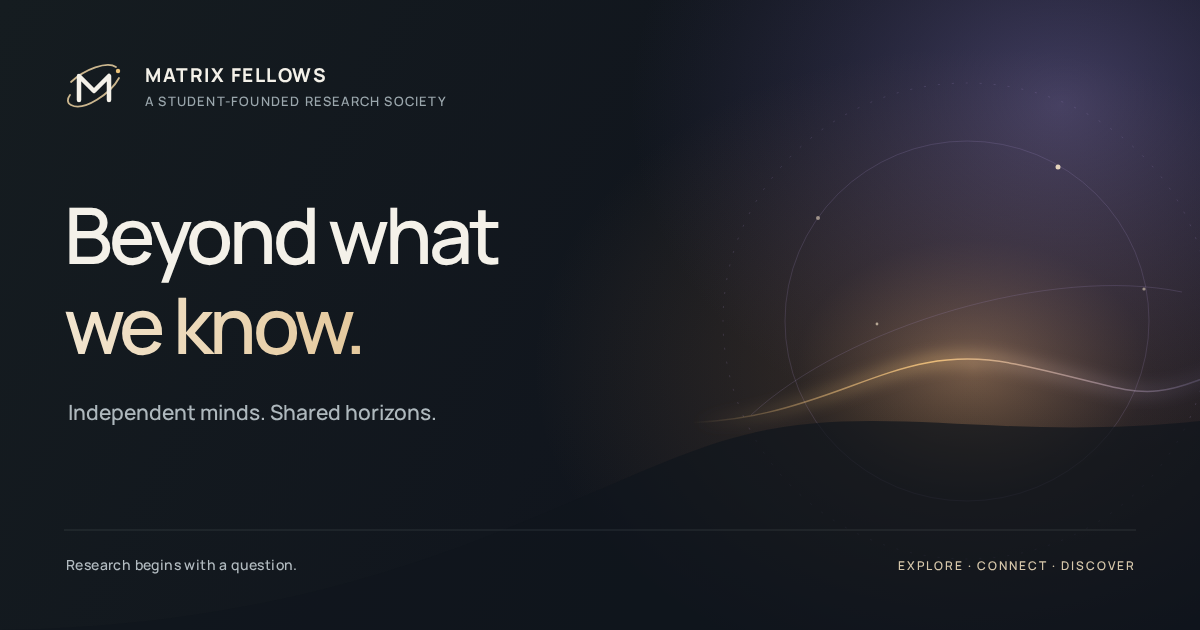
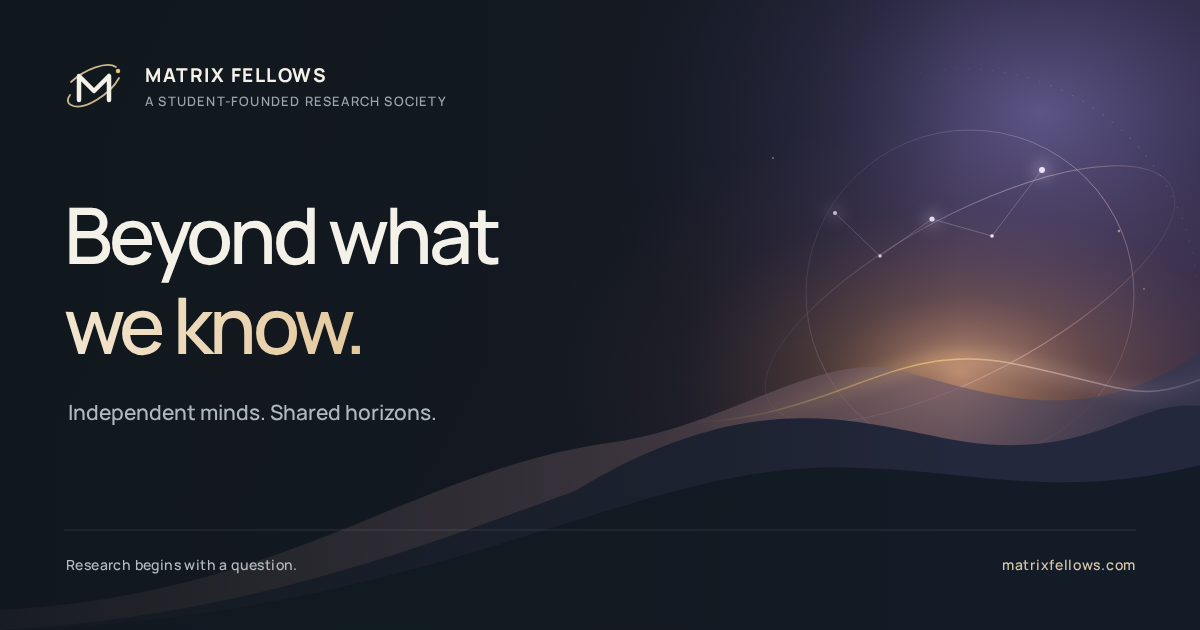
Verify live opportunities, fix Worker fetches, and refine social preview

diff --git a/workers/adapters.ts b/workers/adapters.ts
@@ -128,7 +128,9 @@ export async function fetchSource(source: ImportSource): Promise<Opportunity[]> 
   )
     throw new Error('Source must be a public HTTPS hostname')
   const response = await fetch(url, {
-    redirect: 'error',
+    // Workers supports manual/follow, but not the browser's "error" mode.
+    // Never follow an upstream redirect beyond the validated hostname.
+    redirect: 'manual',
     signal: AbortSignal.timeout(12000),
     headers: {
       Accept:
@@ -140,6 +142,8 @@ export async function fetchSource(source: ImportSource): Promise<Opportunity[]> 
       'User-Agent': 'MatrixFellows-Opportunities/1.0',
     },
   })
+  if (response.status >= 300 && response.status < 400)
+    throw new Error('Source redirects are not allowed')
   if (!response.ok) throw new Error(`Source returned HTTP ${response.status}`)
   if (source.kind === 'official' && !response.headers.get('content-type')?.includes('text/html'))
     throw new Error('Expected official HTML page, not a redirect or challenge')

diff --git a/tests/unit/opportunities.test.ts b/tests/unit/opportunities.test.ts
@@ -27,6 +27,20 @@ const row = {
 afterEach(() => vi.unstubAllGlobals())
 
 describe('opportunity ingestion', () => {
+  it('uses Workers-compatible manual redirects and rejects redirected sources', async () => {
+    const mock = vi
+      .fn()
+      .mockResolvedValue(
+        new Response(null, { status: 302, headers: { Location: 'https://other.example/feed' } }),
+      )
+    vi.stubGlobal('fetch', mock)
+    await expect(fetchSource(source)).rejects.toThrow('Source redirects are not allowed')
+    expect(mock).toHaveBeenCalledWith(
+      expect.any(URL),
+      expect.objectContaining({ redirect: 'manual' }),
+    )
+    expect(mock).toHaveBeenCalledTimes(1)
+  })
   it('compares offset deadlines as instants and ranks US entries first at equal priority', () => {
     expect(deadlineTimestamp('2026-09-07T01:00:00+03:00')).toBeLessThan(
       deadlineTimestamp('2026-09-06T23:00:00Z'),

diff --git a/app/app.vue b/app/app.vue
@@ -5,7 +5,7 @@ import { defaultContent, defaultOpportunities } from '#shared/data/defaults'
 import type { PublicContent } from '#shared/types/content'
 
 const siteUrl = useRuntimeConfig().public.siteUrl
-const socialImage = new URL('/social-card.png', siteUrl).href
+const socialImage = new URL('/social-card.png?v=horizon-2', siteUrl).href
 useSeoMeta({
   ogImage: socialImage,
   ogImageWidth: 1200,

diff --git a/docs/opportunity-imports.md b/docs/opportunity-imports.md
@@ -17,9 +17,18 @@ ISEF, Davidson Fellows, Queer in AI at NeurIPS, NeurIPS, IEEE/CVF CVPR, IEEE ICR
 ## Maintenance
 
 - Run `npm run check:sources` for a read-only live check; `npm test` covers deterministic extraction and database authorization.
+- Run `npm run check:live` after deployment to verify social-crawler metadata, the exact deployed PNG, Supabase connectivity, and all seven published official listings.
 - For redesigned pages or new editions, inspect the official source, update the profile/parser and tests, then redeploy with `npm run deploy:imports`.
 - Apply migrations with `npx supabase db push --linked` before deploying code requiring them.
 - Cloudflare secrets: `SUPABASE_URL`, `SUPABASE_SERVICE_ROLE_KEY`. Never commit either credential.
 - Monitor source errors in the editor and Worker logs. Unannounced dates and ambiguous timezones are explicitly retained as unknown/date-only. Edition rollover deliberately requires maintenance rather than relabeling last year’s dates.
 
 An LLM can later propose parser repairs behind this same review boundary, but is not required for the initial scheduled service.
+
+## Production verification — September 7, 2026
+
+The first seven proposals were checked against fresh official-source results and published. The older generic ISEF and STS discovery cards were suppressed (not deleted) to avoid duplicate listings; the JSHS and general NeurIPS workshop discovery links remain. Davidson is published with an explicit unannounced deadline, not a guessed date.
+
+Exercised the scheduled handler in Cloudflare using Wrangler remote preview and `--test-scheduled`. This revealed that Workers rejects `redirect: 'error'`; the adapter now uses `manual` and explicitly rejects 3xx responses without following them. After the fix, all seven sources recorded one imported item and no errors. This is a manual cloud-runtime test of the scheduled handler, not a claim that a future daily cron has already fired. The production cron remains `0 11 * * *`.
+
+The website Worker has `NUXT_PUBLIC_SUPABASE_URL`, `NUXT_PUBLIC_SUPABASE_ANON_KEY`, and `NUXT_PUBLIC_SITE_URL` configured. The service-role key exists only on the importer. Changed official facts still require owner review; unchanged approved facts refresh automatically.

diff --git a/docs/alto-adventure-references.md b/docs/alto-adventure-references.md
@@ -37,3 +37,7 @@ Downloaded inspection copies: `/tmp/matrix-alto-adventure/dawn.png`, `night.png`
 - The underwater interpretation remains original to Matrix Fellows: the reference supplies palette and layering principles, not literal geography or copied assets.
 
 The implementing agent inspected desktop captures of these changes; final verification details belong in the task handoff rather than this source note.
+
+## Social preview refinement
+
+Reinspected the Dawn and Night screenshots for the 1200×630 Open Graph card. Retained Matrix Fellows’ purple/orange bloom, localized the warm horizon, and introduced muted mauve/slate ridges with darker foreground separation. A sparse Cassiopeia-inspired W and fine orbital geometry echo the website’s scientific identity. The typography remains on a quiet dark field; the lower-right domain replaces the decorative tagline. All artwork is original SVG, rasterized to PNG for social crawlers.
